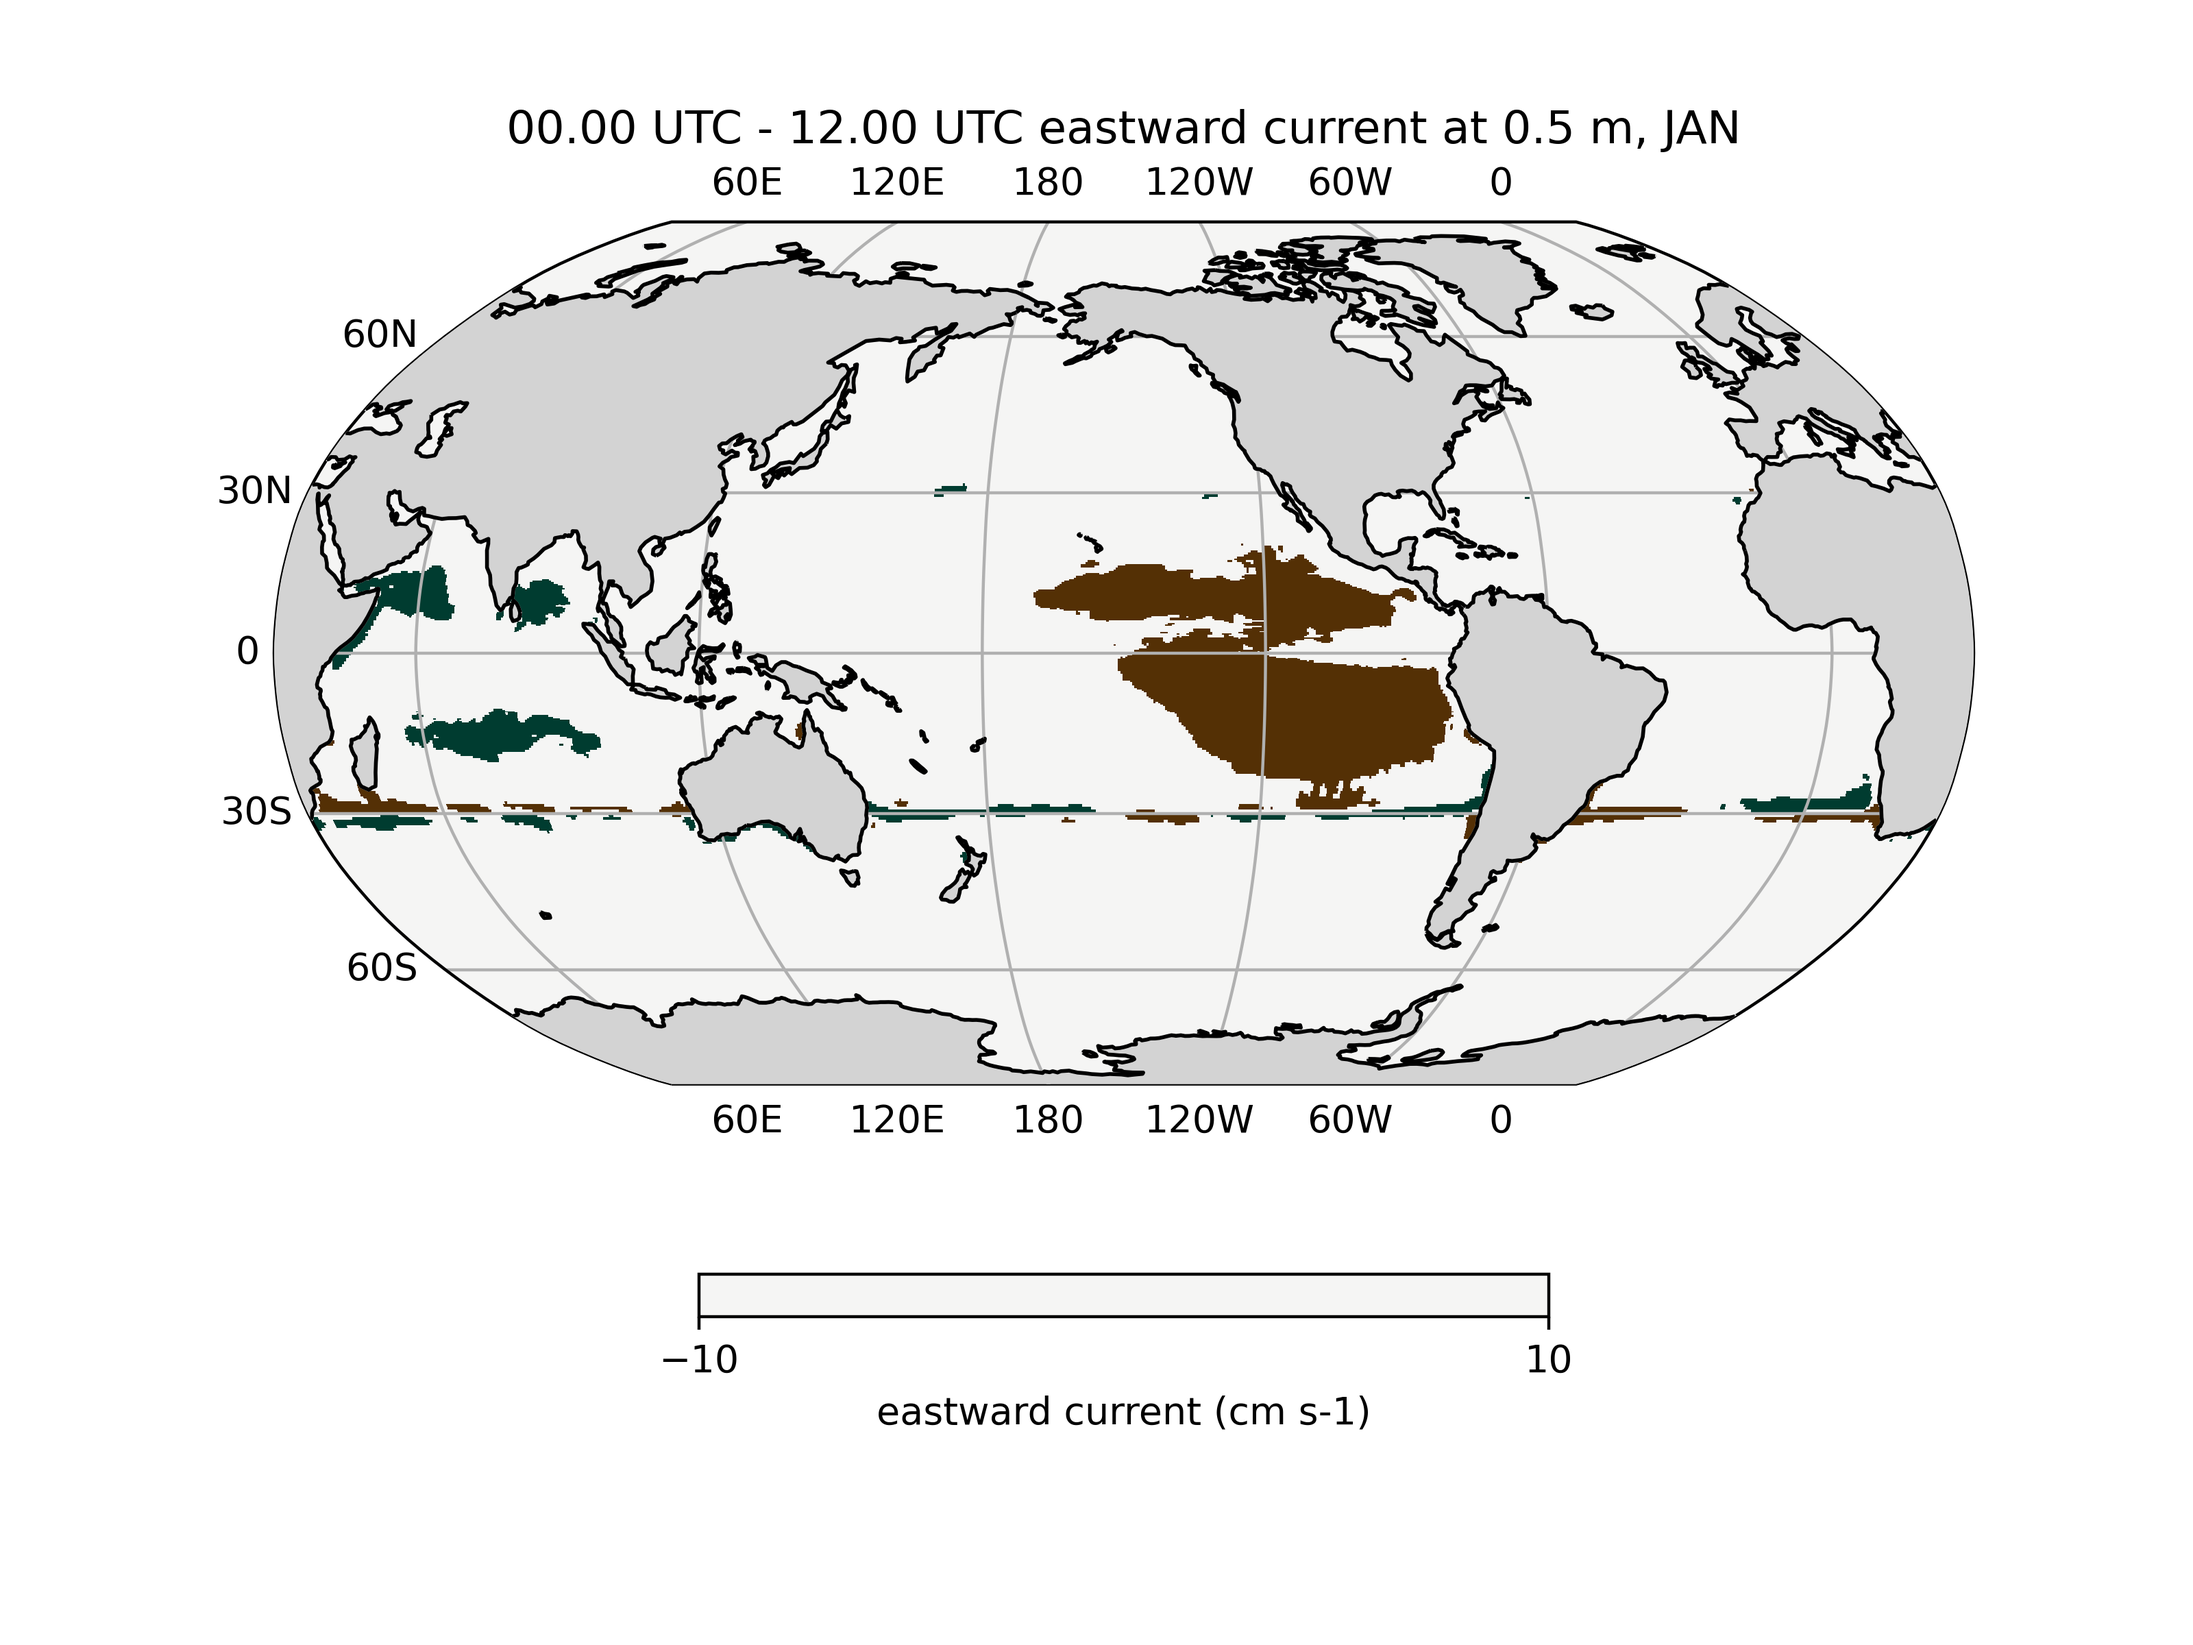
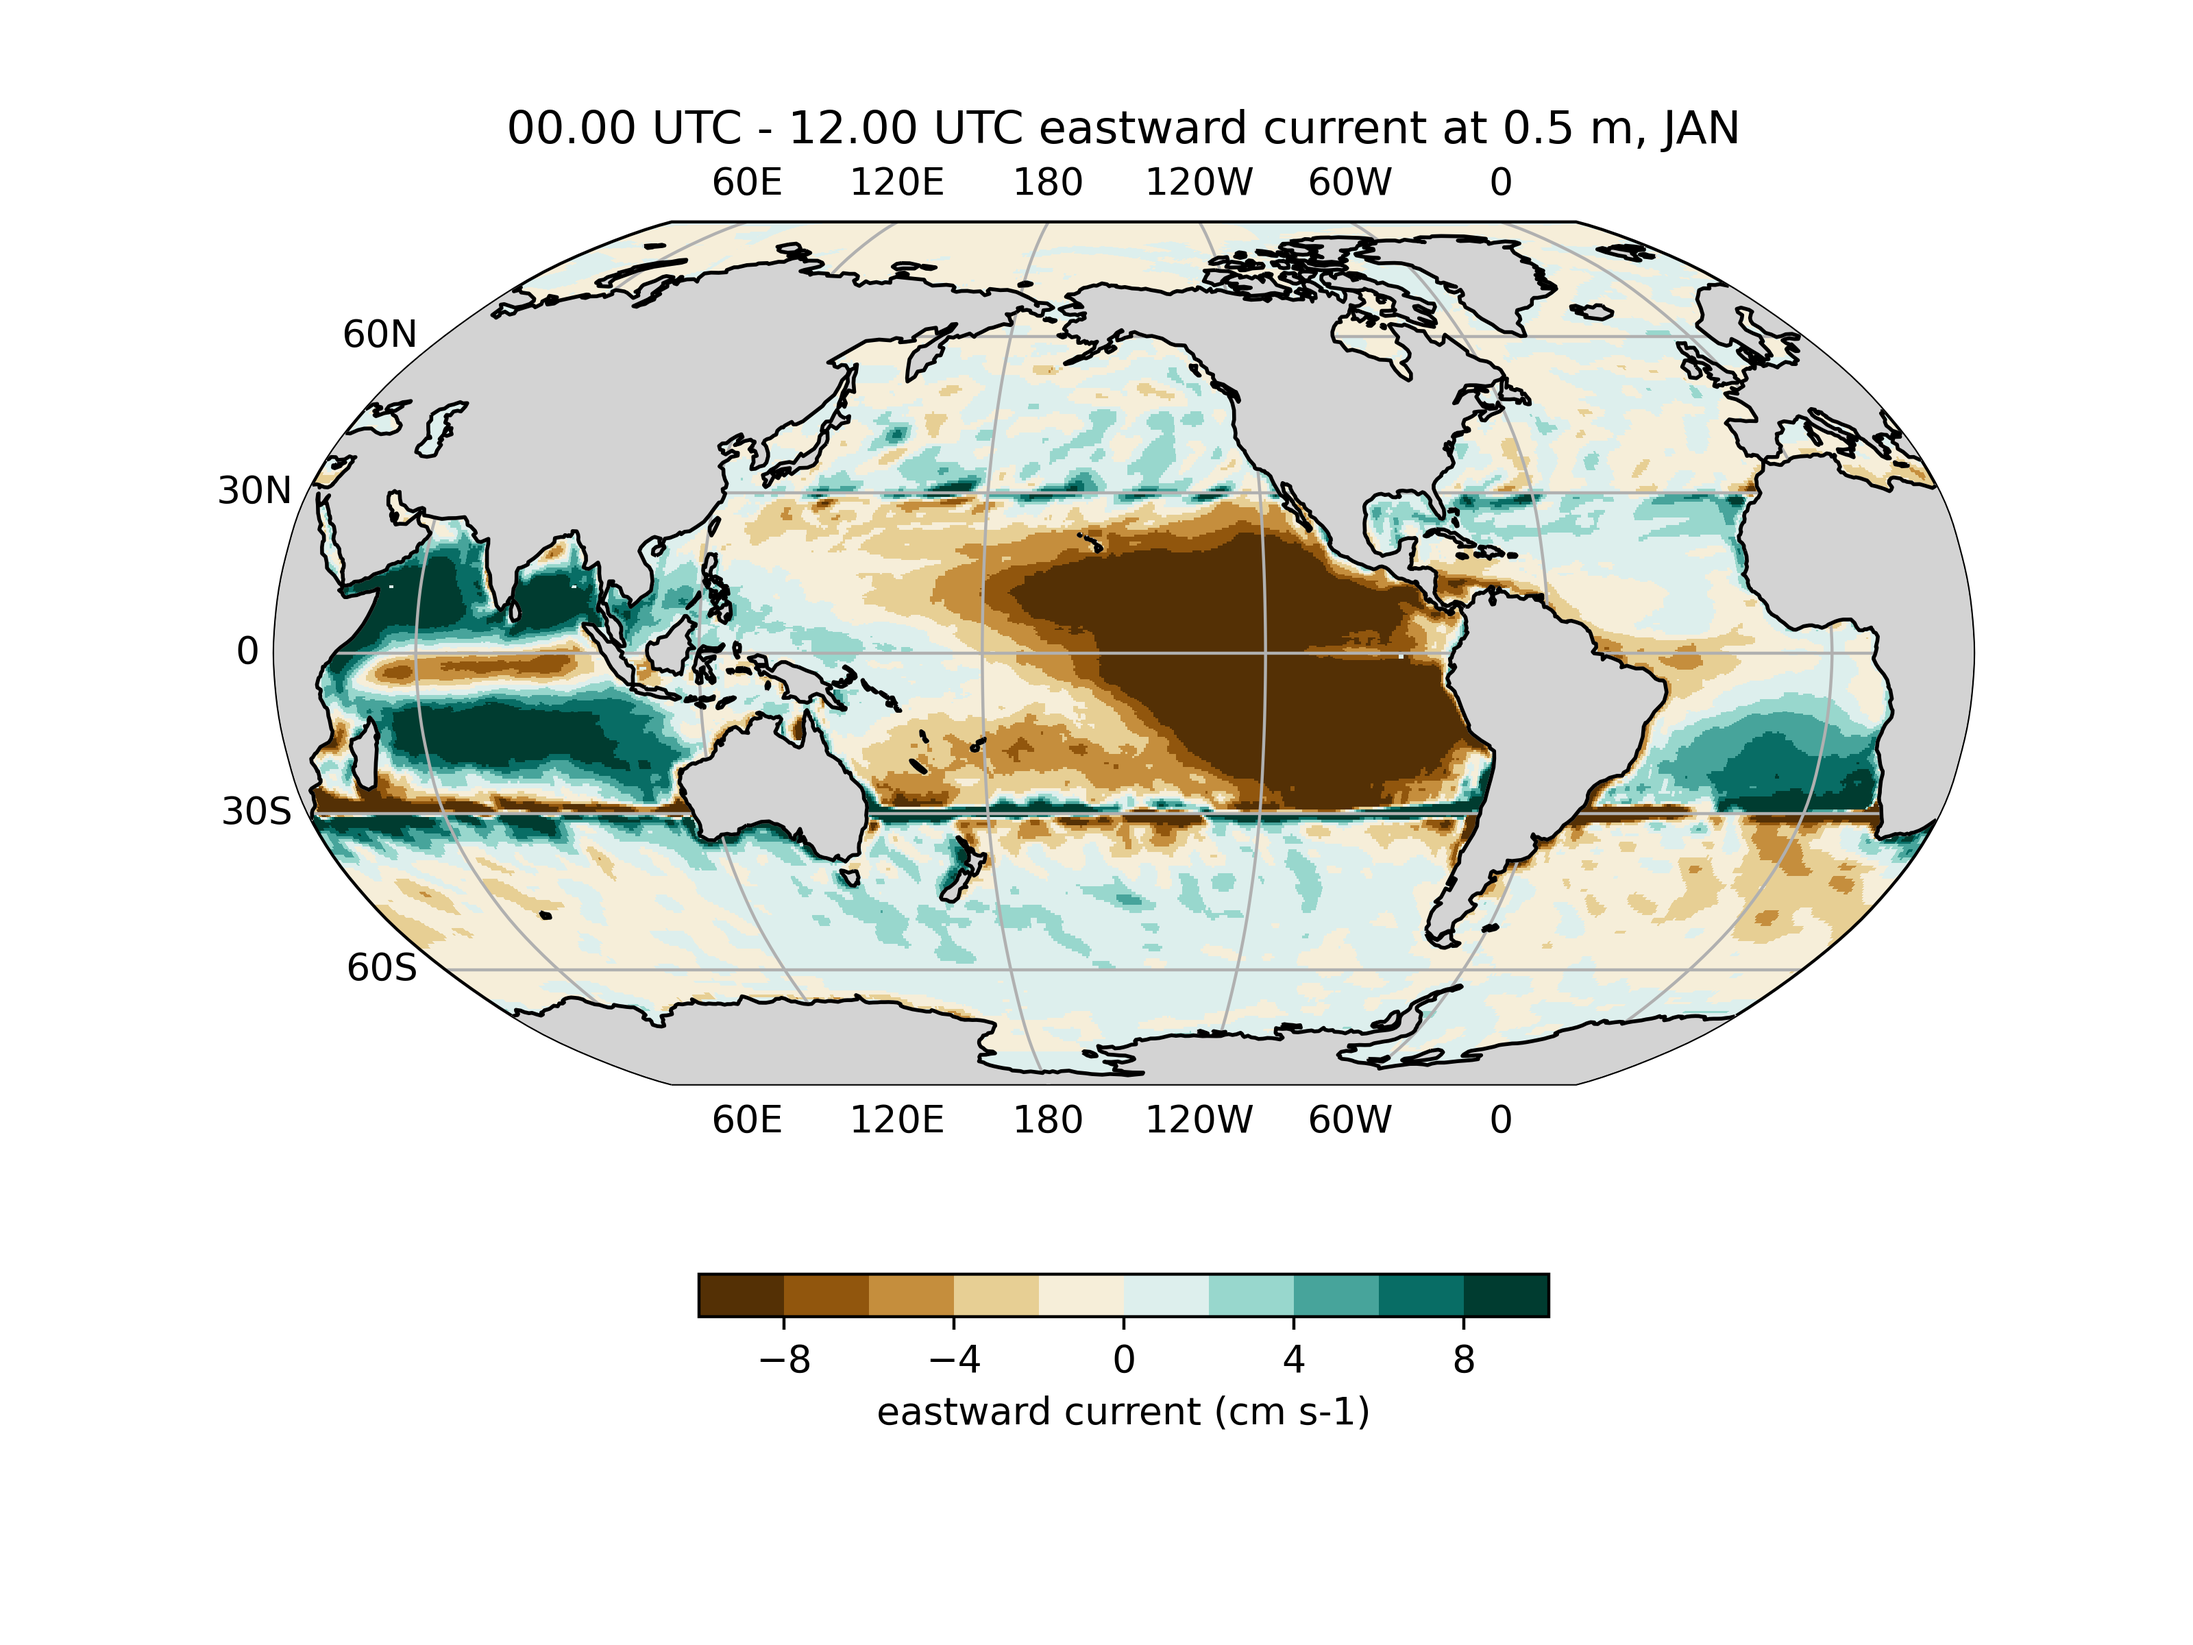
Fixes color scale in current check map.

Changed region(s): [[0.125, 0.125, 0.875, 0.6562], [0.3125, 0.75, 0.7188, 0.8438]]

diff --git a/diurnal_cycle/analysis/current_check_maps.py b/diurnal_cycle/analysis/current_check_maps.py
@@ -166,7 +166,7 @@ def plot_dets(vn, att):
 	    'plotname':'eastward current',
 	    'min':-10.0,
 	    'max':10.0,
-	    'step':20.0,
+	    'step':2.0,
 	    'units':'cm s-1',
 	    'cmap':'BrBg'
 	},
